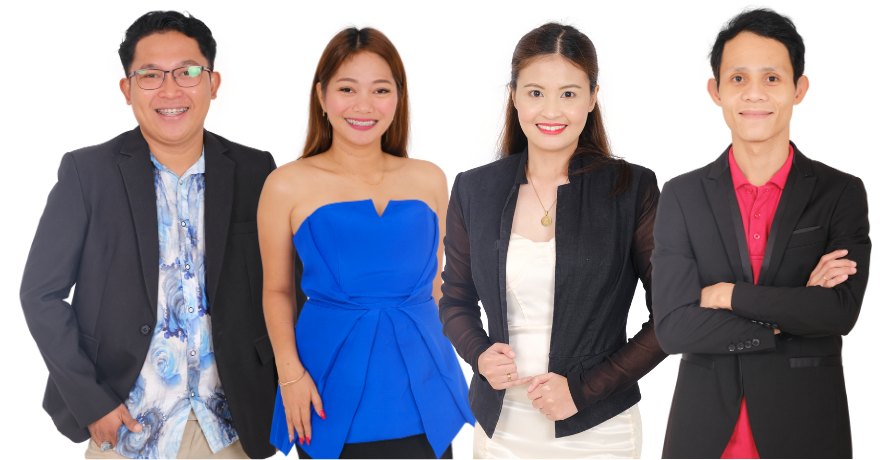
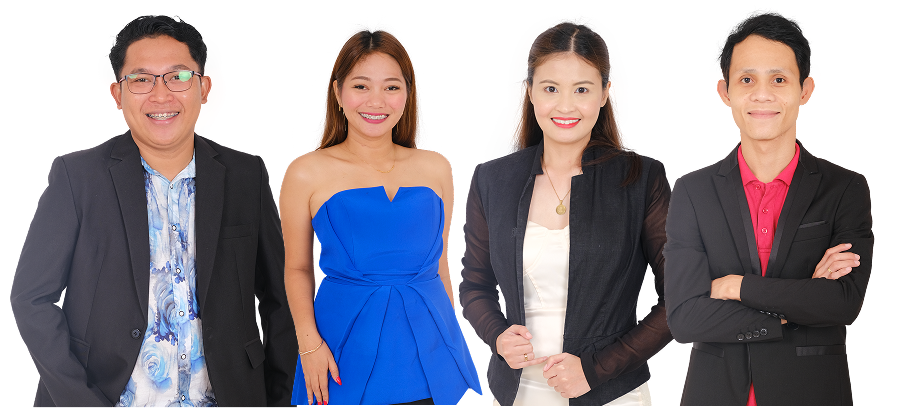
Added content to profiles.html

diff --git a/profiles.html b/profiles.html
@@ -6,8 +6,46 @@
     <meta charset="UTF-8">
     <meta name="viewport" content="width=device-width, initial-scale=1.0">
     <title>Energy Profiles</title>
+    <link href = "styles.css" rel = "stylesheet">
 </head>
 <body>
+
+    <header class="header-profiles">
+        <a href = "index.html">
+            <img src = "images/logo.png" alt = "Energy FM 106.3 Naga Logo" class = "logo">
+        </a>
+
+        <input type="checkbox" id="menu-toggle">
+        <label for="menu-toggle" class="menu-icon">&#9776;</label>
+
+        <div class="dropdown-menu">
+            <a href="about.html">About</a>
+            <a href="profiles.html">Profiles</a>
+            <a href="programs.html">Programs</a>
+            <a href="stream.html">Stream</a>
+            <a href="news.html">News</a>
+        </div>
+
+        <div class="banner-profiles">
+
+            <div class="hosts-profile">
+                <img style="width: 918.5px; height: auto;" src="images/djs_profiles.png">
+            </div>
+        </div>
+    </header>
+
+    <div class = "break-box"></div>
+
+    <div class="description">
+        <h1>DJ PROFILES</h1>
+        <p>Meet our DJs and Anchors - the voices who bring out the energy, 
+            the vibe,  and the fun to all your favorite shows. Check out their profiles and 
+            connect with the people that makes the Energy FM alive. Basta ENERGY, number 1 pirmi!!</p>
+    </div>
+
+    <div class = "footer">
+        <footer>Privacy Policy | Energy FM © 2010</footer>
+    </div>
     
 </body>
 </html>

diff --git a/styles.css b/styles.css
@@ -60,6 +60,46 @@
     box-shadow: 0 10px 20px -5px rgba(0,0,0,0.4);
 }
 
+/* Profiles */
+.header-profiles {
+    background: url('images/profiles-main.png') center/cover no-repeat;
+    height: 650px;
+    position: relative;
+    box-shadow: 0 10px 20px rgba(0,0,0,0.4);
+}
+
+.hosts-profile img {
+    height: 270px;
+    margin: 20px 0;
+}
+
+.banner-profiles {
+    background-repeat: no-repeat;
+    background-position: center;
+    background-size: cover;
+    width: 100%;
+    padding: 50px 0;
+    text-align: center;
+    color: white;
+    min-height: 250px;
+}
+
+.description {
+    margin-bottom: 100px;
+}
+
+.description h1 {
+    text-align: center; 
+    padding-top: 50px;
+    font-size: 50px;
+}
+
+.description p {
+    text-align: center;
+    padding: 45px 290px;
+    font-weight: 350;
+}
+
 /* Programs */
 * {
     margin: 0;
